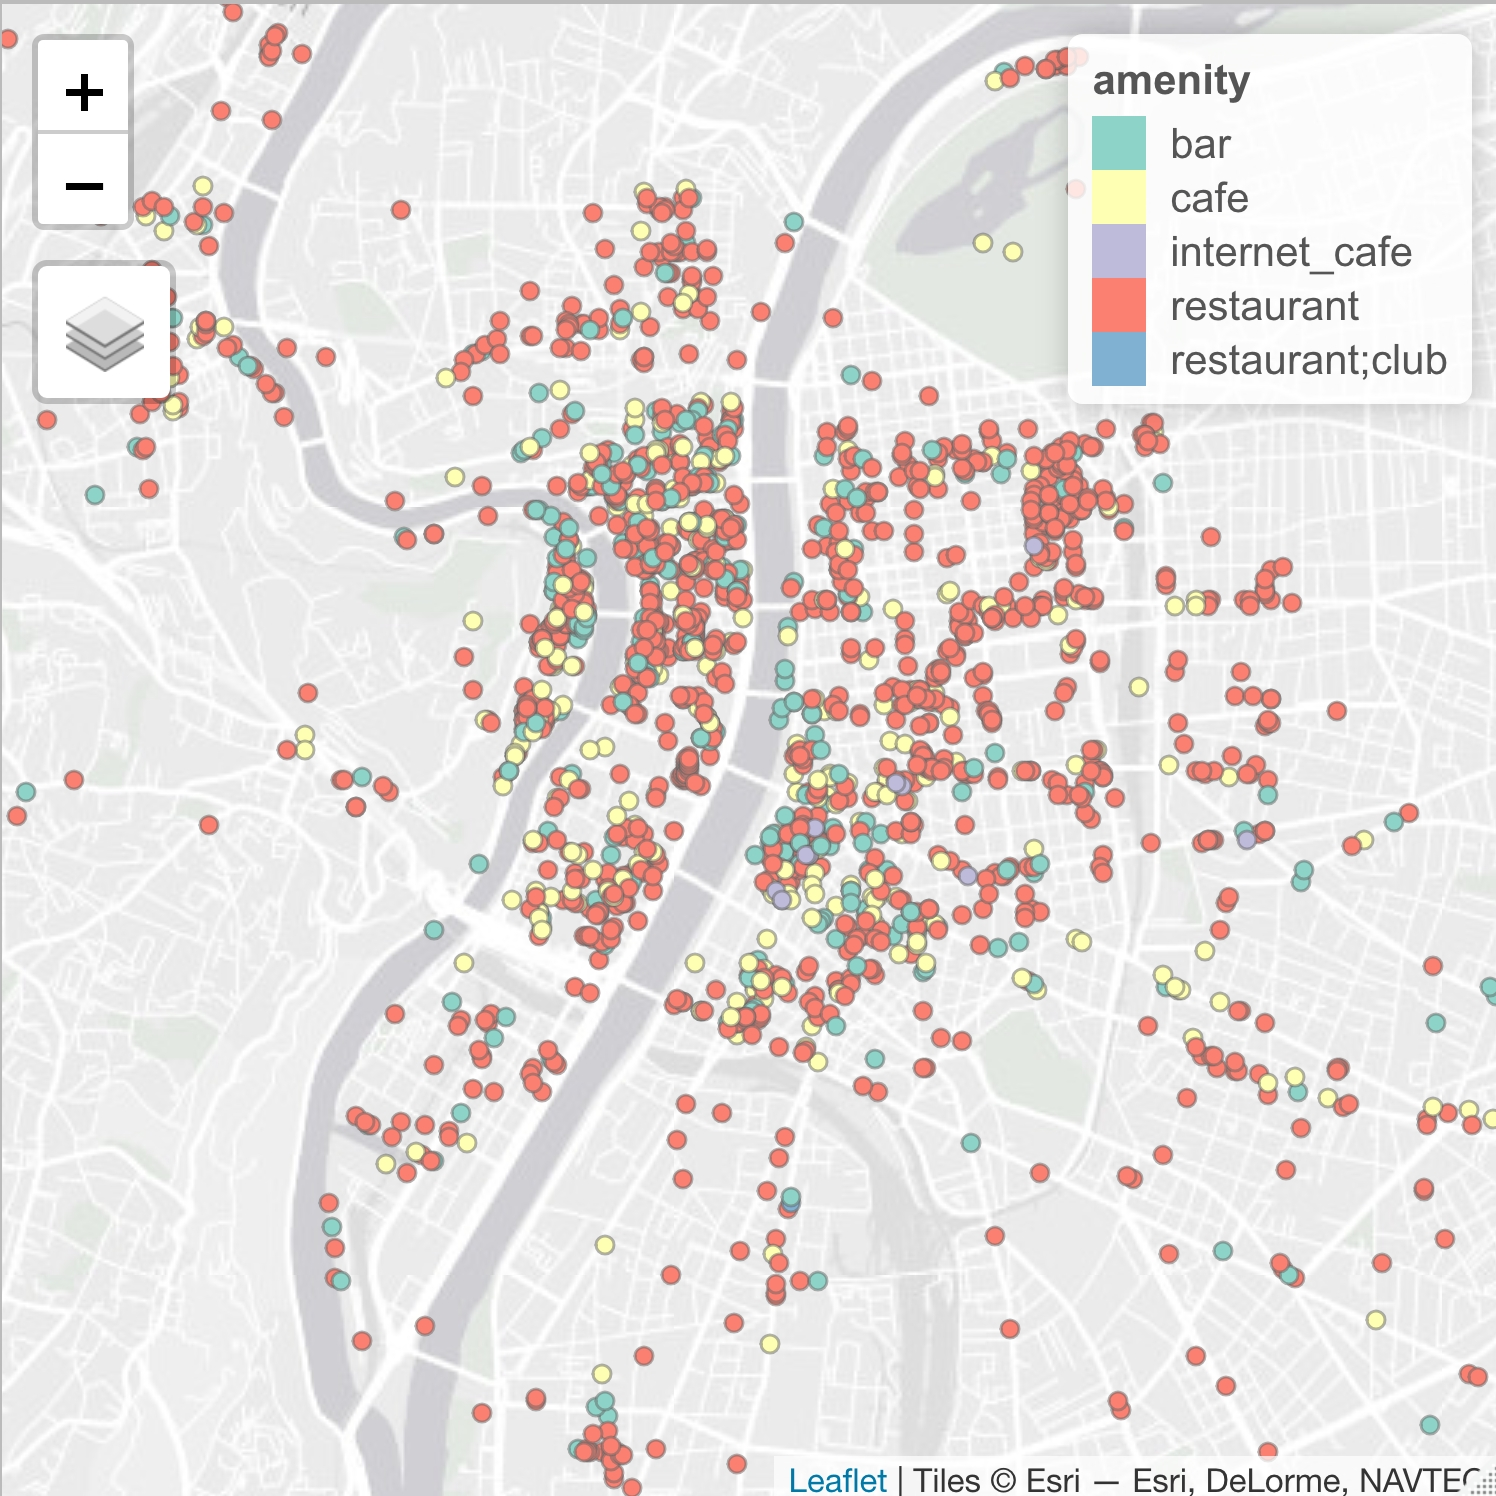
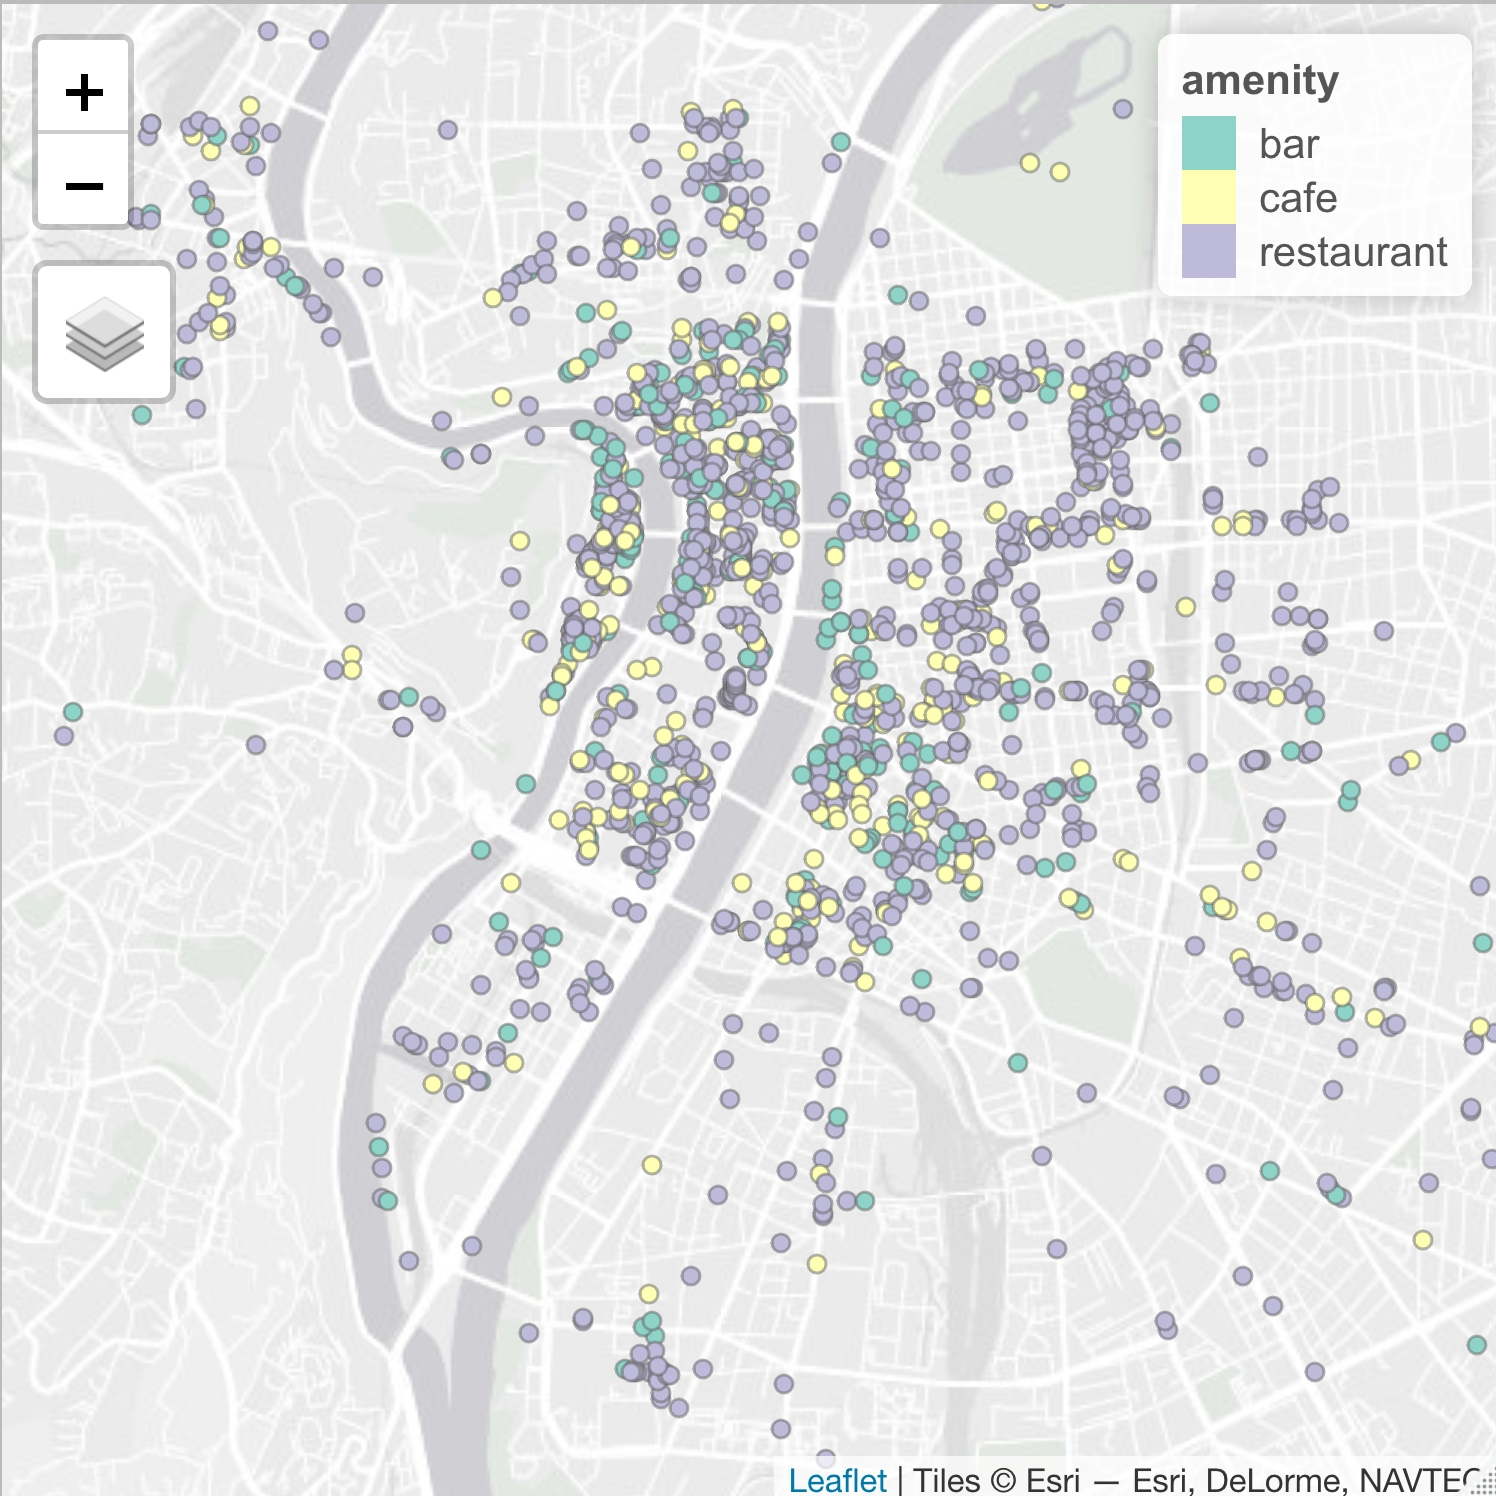
Updated example

diff --git a/README.md b/README.md
@@ -27,7 +27,7 @@ source("https://raw.githubusercontent.com/goclem/get_osm/main/get_osm.R")
 
 # Extracts OSM data
 check_requirements()
-query    <- "[timeout:60];area[admin_level=8][name=Lyon]->.a;nwr[amenity~\'^cafe$|^bar$|^restaurant$\'](area.a);out center;"
+query    <- "area[admin_level=8][name=Lyon]->.a;nwr[amenity~\'^(cafe|bar|restaurant)$\'](area.a);out center;"
 response <- get_osm(query)
 response <- subset(response, select = c(id, amenity, name))
 
